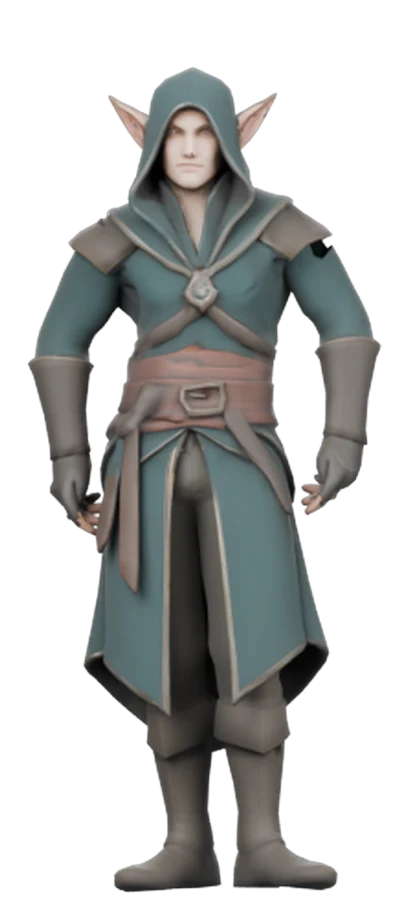
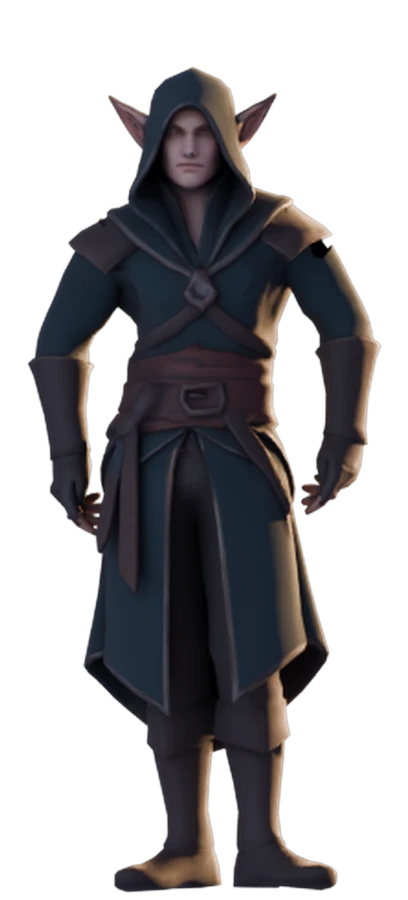
освещение портрета

diff --git a/src/client/pc/PcInventory.ts b/src/client/pc/PcInventory.ts
@@ -10,6 +10,7 @@ import type { IconKey } from "#shared/icons";
 import { AEGIS_NAME, AFFIX_NAME, craftPow, isCraftRare, weaponName, ATTACK_CLASSES, WEAPON_NOUN, attackPointBonus, attackPointEligible, attackPointNext, attackPoints, bothHandsCls, bothHandsNote, fmtPct, qualityStarsShort, sharpPctOf, weaponDef, type WeaponClass, type WeaponTier } from "#shared/items";
 import type { PcEnchRow, PcInvActMsg, PcInvArmor, PcInvData, PcInvResult, PcInvWeapon, TradeItemView } from "#shared/net/messages";
 import { skinPicture } from "#shared/skins";
+import { BOT_SKIN_LABELS } from "../world/models";
 import { ATTR_SHORT, gemName, parseGem, pcJewelBonus, RING, ringBonusText, ringLabel, ringName, ringSkillBonusOf, type PcInvJewels, type PcInvNeck, type PcInvRing, type RingTier } from "#shared/jewels";
 import { RING_STATS, ringValueText } from "#shared/ringAffixes";
 import { NECK_TIER_NAME, type NeckTier } from "#shared/necklaces";
@@ -78,6 +79,8 @@ export interface PcInventoryHooks {
   act: (m: PcInvActMsg) => void;
   /** Броня в сумке: надеть / снять / разобрать / выбросить. Без хука броня не показывается (страница !inv). */
   armorAct?: (id: string, act: "wear" | "unwear" | "scrap" | "drop" | "fav") => void;
+  /** Сменить облик героя (1 — Человек, 2 — Эльф). Без хука выбор не показывается. */
+  setSkin?: (skin: number) => void;
   /** Что сейчас в руках (включая обычное, которого нет на складе). */
   hands: () => { left: HeldInfo | null; right: HeldInfo | null };
   equip: (w: PcInvWeapon, side: Side) => void;
@@ -992,6 +995,24 @@ export class PcInventory {
     img.alt = "";
     img.draggable = false;
     st.append(div("pcinv-heroshadow"), img);
+    // Выбор облика — под куклой героя (CSS-класс .pcinv-skinpick ждал этого блока).
+    if (this.hooks.setSkin && BOT_SKIN_LABELS.length > 1) {
+      const pick = div("pcinv-skinpick");
+      const sel = document.createElement("select");
+      sel.className = "pcinv-skinsel";
+      sel.title = "Облик героя";
+      BOT_SKIN_LABELS.forEach((label, i) => {
+        const o = document.createElement("option");
+        o.value = String(i + 1);
+        o.textContent = label;
+        sel.append(o);
+      });
+      const cur = Math.max(1, Math.min(BOT_SKIN_LABELS.length, this.hero.skin));
+      sel.value = String(cur);
+      sel.onchange = () => this.hooks.setSkin?.(Number(sel.value));
+      pick.append(sel);
+      st.append(pick);
+    }
     return st;
   }
 

diff --git a/src/client/inv/main.ts b/src/client/inv/main.ts
@@ -179,6 +179,8 @@ function pageInv(): PcInventory {
     touch: matchMedia("(pointer: coarse)").matches,
     request: () => room?.send("refresh"),
     act: (m) => act(m.act, m.id || (m.act === "title" ? "-" : m.id), m.idx, m.fuel),
+    // Облик (1 — Человек, 2 — Эльф): сервер ставит герою сразу, если он в мире, иначе — при входе.
+    setSkin: (skin) => act("skin", String(skin)),
     hands: () => heldHands as ReturnType<PcInventoryHooks["hands"]>,
     // idx 1 — в левую руку (второй меч/кинжал к такому же в правой).
     equip: (w, side) => act("equip", w.id, side === "left" ? 1 : 0),
@@ -251,7 +253,12 @@ function connect(attempt = 0): void {
       room = r;
       r.onMessage("sid", (sid: string) => saveSid(sid));
       // Итог крафта — во вкладку «Крафт» окна (исход крупно), остальное — всплывашкой.
-      r.onMessage("toast", (m: { ok: boolean; text: string; craft?: unknown }) => (m.craft ? pcInv?.onResult(m as never) : m.text && toast(m.text, m.ok)));
+      r.onMessage("toast", (m: { ok: boolean; text: string; craft?: unknown }) => {
+        if (m.craft) return pcInv?.onResult(m as never);
+        if (m.text) toast(m.text, m.ok);
+        // Смена облика — перерисовать героя на камне и обновить данные (картинка облика).
+        if (m.ok && /Облик/i.test(m.text ?? "")) room?.send("refresh");
+      });
       r.onMessage("enchant", (m: unknown) => pcInv?.onResult(m as never));
       r.onMessage("feedback", (m: FeedbackReply) => onFeedback(m));
       r.onMessage("inv", (msg: InvMsg) => {

diff --git a/tools/blender/hero_portrait.py b/tools/blender/hero_portrait.py
@@ -1,0 +1,95 @@
+"""Портрет эльфа с живым освещением заката: тёплое солнце сверху-справа-позади."""
+import bpy, sys, math
+from mathutils import Vector
+
+OUT = sys.argv[sys.argv.index("--")+1]
+SRC = sys.argv[sys.argv.index("--")+2]
+
+bpy.ops.wm.read_factory_settings(use_empty=True)
+bpy.ops.import_scene.gltf(filepath=SRC)
+
+meshes = [o for o in bpy.data.objects if o.type == 'MESH']
+arms = [o for o in bpy.data.objects if o.type == 'ARMATURE']
+if arms:
+    a = arms[0]
+    a.data.pose_position = 'POSE'
+    if a.animation_data is None: a.animation_data_create()
+    act = bpy.data.actions.get('Idle')
+    if act:
+        a.animation_data.action = act
+        if hasattr(a.animation_data, 'action_slot') and act.slots:
+            a.animation_data.action_slot = act.slots[0]
+bpy.context.scene.frame_set(30)
+for _ in range(3):
+    bpy.context.view_layer.update()
+    bpy.context.evaluated_depsgraph_get().update()
+
+lo = Vector((1e9,)*3); hi = Vector((-1e9,)*3)
+for m in meshes:
+    for v in m.bound_box:
+        w = m.matrix_world @ Vector(v)
+        lo = Vector((min(lo[i], w[i]) for i in range(3)))
+        hi = Vector((max(hi[i], w[i]) for i in range(3)))
+center = (lo+hi)/2
+h = hi.z - lo.z
+print(f"[sun] рост {h:.3f}", flush=True)
+
+# Камера: спереди (-Y), ортографическая
+cam_d = bpy.data.cameras.new("cam"); cam_d.type='ORTHO'; cam_d.ortho_scale = h*1.06
+cam = bpy.data.objects.new("cam", cam_d); bpy.context.scene.collection.objects.link(cam)
+cam.location = (center.x, center.y - 4, center.z)
+cam.rotation_euler = (math.radians(90), 0, 0)
+bpy.context.scene.camera = cam
+
+# ЗАКАТНОЕ СОЛНЦЕ: сверху-справа-ПОЗАДИ героя (+Y — за спиной при виде спереди)
+# Цвет — DUSK.sun из DayTime.ts: [1, 0.6, 0.32]
+sun_col = (1.0, 0.6, 0.32)
+sd = bpy.data.lights.new("sunset", 'SUN')
+sd.energy = 12.0
+sd.color = (1.0, 0.55, 0.26)
+sd.angle = math.radians(2.0)
+sun = bpy.data.objects.new("sunset", sd)
+bpy.context.scene.collection.objects.link(sun)
+# направление: из точки (+X, +Y, +Z) в центр → свет падает сзади-справа-сверху
+lpos = Vector((center.x + 2.9, center.y + 1.9, center.z + h*0.42))
+d = (Vector(center) - lpos).normalized()
+sun.location = lpos
+sun.rotation_euler = d.to_track_quat('-Z', 'Y').to_euler()
+
+# Тёплый контровой подсвет: слабый заполняющий свет спереди-слева, холодный, как небо заката
+fill_d = bpy.data.lights.new("fill", 'AREA'); fill_d.energy = 90; fill_d.size = 5.0
+fill_d.color = (0.60, 0.66, 5.0 and 1.0)
+fill = bpy.data.objects.new("fill", fill_d)
+fill.location = (center.x - 2.2, center.y - 2.4, center.z + h*0.35)
+bpy.context.scene.collection.objects.link(fill)
+fd = (Vector(center) - Vector(fill.location)).normalized()
+fill.rotation_euler = fd.to_track_quat('-Z','Y').to_euler()
+
+# Rim-подсвет сзади для контура (тёплый)
+rim_d = bpy.data.lights.new("rim", 'AREA'); rim_d.energy = 1200; rim_d.size = 1.6
+rim_d.color = (1.0, 0.52, 0.22)
+rim = bpy.data.objects.new("rim", rim_d)
+rim.location = (center.x + 1.2, center.y + 2.6, center.z + h*0.50)
+bpy.context.scene.collection.objects.link(rim)
+rd = (Vector(center) - Vector(rim.location)).normalized()
+rim.rotation_euler = rd.to_track_quat('-Z','Y').to_euler()
+
+# Мир: небо заката (DUSK.zenith / horizon)
+world = bpy.data.worlds.new("w"); bpy.context.scene.world = world
+world.use_nodes = True
+bg = world.node_tree.nodes["Background"]
+bg.inputs[0].default_value = (0.28, 0.24, 0.42, 1)   # сумеречная синева
+bg.inputs[1].default_value = 0.9
+
+sc = bpy.context.scene
+sc.render.engine = 'CYCLES'
+sc.cycles.samples = 64
+sc.cycles.device = 'CPU'
+sc.render.film_transparent = True
+sc.render.resolution_x = 408
+sc.render.resolution_y = 900
+sc.render.image_settings.file_format = 'PNG'
+sc.render.image_settings.color_mode = 'RGBA'
+sc.render.filepath = OUT
+bpy.ops.render.render(write_still=True)
+print(f"[sun] готово: {OUT}", flush=True)
